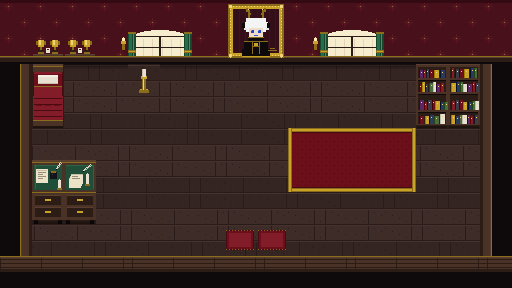
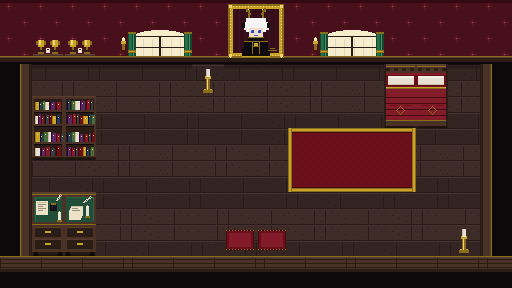
Add files via upload

diff --git a/index.html b/index.html
@@ -103,12 +103,12 @@ const cv=document.getElementById('c'), ctx=cv.getContext('2d'); ctx.imageSmoothi
 const MAP=[
 "#######PP#######",
 "#SS#WW#PP#WW####",
-"#b..C........BB#",
-"#d...........BB#",
-"#........rrrr..#",
-"#DD......rrrr..#",
-"#DD.........M..#",
-"#......GG......#",
+"#.....C.....bb.#",
+"#BB.........dd.#",
+"#BB......rrrr..#",
+"#........rrrr.M#",
+"#DD............#",
+"#DD....GG.....C#",
 "################"];
 
 /* 互動：key 對應地圖字元或貓的 id */
@@ -119,7 +119,7 @@ const TALK={
  P:{name:'肖像',text:'牆上一幅大肖像：白髮、鹿角、黑金哥德蘿莉，眼睛是青金石的藍。角落簽著「製作人安谷」。要看關於我嗎？',go:'about.html'},
  W:{name:'窗',text:'窗外是夜色和別人的房子。窗台貼了一排便條，寫著常去的地方。要看書籤嗎？',go:'links.html'},
  b:{name:'床',text:''},
- d:{name:'床',text:'床尾疊著幾本法典。別亂翻，苛麗特會生氣。'},
+ d:{name:'床',text:'豪華雙人床，床尾疊著幾本法典。別亂翻，苛麗特會生氣。'},
  C:{name:'燭台',text:'蠟燭自己在燒。你沒看到有人點過它。'},
  r:{name:'地毯',text:'酒紅色的地毯，有貓毛。'},
  M:{name:'唱機',text:''},
@@ -174,15 +174,15 @@ const BUCK={id:'buck',x:7,y:4,dir:1,timer:60,mx:0,my:0,moving:false,name:'巴克
 /* 貓：id、格子座標、畫法 */
 const CATS=[
  {id:'cat_poe',x:10,y:5,c:['#111','#d4a017',['#2a9df4','#d4a017']]},   // 黑貓 西裝 藍黃異瞳
- {id:'cat_ono',x:13,y:2,c:['#f6f6f6','#e9dfd0','#7fd8e8']}, // 奧諾依 白貓 珍珠項鍊 水藍眼
- {id:'cat_col',x:1,y:3,c:['#e08a2e','#f6c27a','#6b0f1a']},// 薑黃
- {id:'cat_gal',x:5,y:6,c:['#f4ecdc','#e08a2e','#222']},    // 三花
- {id:'cat_gar',x:2,y:2,c:['#9a6a3c','#5a3a1e',['#2e8b3a','#d4a017']]},   // 咖啡色虎斑 禮帽 綠黃異瞳
- {id:'cat_bau',x:2,y:5,c:['#e8dcc8','#b03030','#4a6fd6']}    // 波特萊爾 暹羅 紅捲髮 趴在寫字桌上
+ {id:'cat_ono',x:2,y:3,c:['#f6f6f6','#e9dfd0','#7fd8e8']}, // 奧諾依 白貓 珍珠項鍊 水藍眼
+ {id:'cat_col',x:14,y:3,c:['#e08a2e','#f6c27a','#6b0f1a']},// 薑黃
+ {id:'cat_gal',x:4,y:6,c:['#f4ecdc','#e08a2e','#222']},    // 三花
+ {id:'cat_gar',x:3,y:2,c:['#9a6a3c','#5a3a1e',['#2e8b3a','#d4a017']]},   // 咖啡色虎斑 禮帽 綠黃異瞳
+ {id:'cat_bau',x:2,y:6,c:['#e8dcc8','#b03030','#4a6fd6']}    // 波特萊爾 暹羅 紅捲髮 趴在寫字桌上
 ];
 
 /* 玩家 */
-const P={x:7,y:6,dir:'up',step:0,moving:false,mx:0,my:0};
+const P={x:7,y:6,dir:'down',step:0,moving:false,mx:0,my:0};
 
 /* ---------- 可替換素材 ---------- */
 const ASSETS={}; // name -> Image

diff --git a/about.html b/about.html
@@ -39,7 +39,6 @@
 <div class="box">
   <h3>也做這些</h3>
   <ul>
-    <li>人物插畫委託，商用另計。</li>
     <li>SUNO 配樂，會放進卡裡當 BGM：<a href="https://suno.com/@angu_1104" target="_blank">@angu_1104</a></li>
   </ul>
 </div>

diff --git a/paint_room.py b/paint_room.py
@@ -123,19 +123,26 @@ def desk(x,y,top,right=False):
         for k in range(2):
             R(x+3,y+3+k*12,T-6,10,WOOD3); R(x+3,y+3+k*12,T-6,1,WOOD4); R(x+13,y+7+k*12,6,2,GOLD)
         R(x,y+T-4,T,4,WOOD3); R(x+2,y+T-4,4,4,INK); R(x+T-6,y+T-4,4,4,INK); shadow_below(x,y,3)
-def bed(x,y,head):
+def bed(x,y,head,left):
+    # 豪華雙人床：2 格寬，head 為床頭列，left 為左半
     if head:
         R(x,y,T,T,WINE3)
-        R(x,y,T,8,WOOD2); R(x,y,T,2,WOOD4); R(x+1,y+2,T-2,1,GOLD2); # 床頭板
-        R(x+2,y+8,T-4,T-8,WINE); R(x+2,y+8,T-4,2,WINE2)
-        R(x+6,y+11,20,9,CREAM); R(x+6,y+11,20,2,(245,240,228)); R(x+6,y+19,20,1,CREAM2) # 枕頭
-        R(x+2,y+22,T-4,10,WINE2); R(x+2,y+22,T-4,1,GOLD2)
+        R(x,y,T,9,WOOD2); R(x,y,T,2,WOOD4); R(x+1,y+2,T-2,1,GOLD2)   # 床頭板
+        for k in range(0,T,8): R(x+k+2,y+4,4,3,WOOD3)               # 床頭板雕花
+        R(x,y+9,T,T-9,WINE); R(x,y+9,T,2,WINE2)
+        px_=x+4 if left else x+2
+        R(px_,y+12,T-6,9,CREAM); R(px_,y+12,T-6,2,(245,240,228)); R(px_,y+20,T-6,1,CREAM2)   # 枕頭
+        R(x,y+23,T,9,WINE2); R(x,y+23,T,1,GOLD); R(x,y+24,T,1,GOLD2)                       # 被子上緣金邊
     else:
-        R(x,y,T,T,WINE2); R(x+2,y,T-4,T-8,WINE2)
-        for i in range(4): R(x+2,y+2+i*6,T-4,1,WINE3)  # 被子皺摺
-        for i in range(3): R(x+4+i*9,y+9,6,1,WINE)
+        R(x,y,T,T,WINE2)
+        for i in range(4): R(x,y+1+i*6,T,1,WINE3)
+        for i in range(2): R(x+6+i*14,y+9,8,1,WINE)
+        # 被面上的菱形金紋
+        cx=x+16; 
+        for k in range(-4,5): P(cx+k,y+14+abs(k)-4,GOLD2); P(cx+k,y+14-abs(k)+4,GOLD2)
         R(x,y+T-8,T,8,WOOD2); R(x,y+T-8,T,1,GOLD2); R(x,y+T-2,T,2,WOOD3); shadow_below(x,y,2)
-    R(x,y,1,T,WOOD3); R(x+T-1,y,1,T,WOOD3)
+    if left: R(x,y,2,T,WOOD3)
+    else: R(x+T-2,y,2,T,WOOD3)
 def trophy(x,y):
     wall(x,y)
     R(x+1,y+22,T-2,3,WOOD2); R(x+1,y+22,T-2,1,WOOD4); R(x+1,y+25,T-2,1,INK)
@@ -202,8 +209,8 @@ for yy,row in enumerate(MAP):
         elif t=='W': window(x,y,left=row[xx-1]!='W')
         elif t=='B': bookshelf(x,y,top=MAP[yy-1][xx]!='B',bottom=MAP[yy+1][xx]!='B')
         elif t=='D': desk(x,y,top=MAP[yy-1][xx]!='D',right=row[xx-1]=='D')
-        elif t=='b': bed(x,y,True)
-        elif t=='d': bed(x,y,False)
+        elif t=='b': bed(x,y,True,row[xx-1]!='b')
+        elif t=='d': bed(x,y,False,row[xx-1]!='d')
         elif t=='S': trophy(x,y)
         elif t=='C': candle(x,y)
         elif t=='P': wall(x,y,top=(yy==0))
